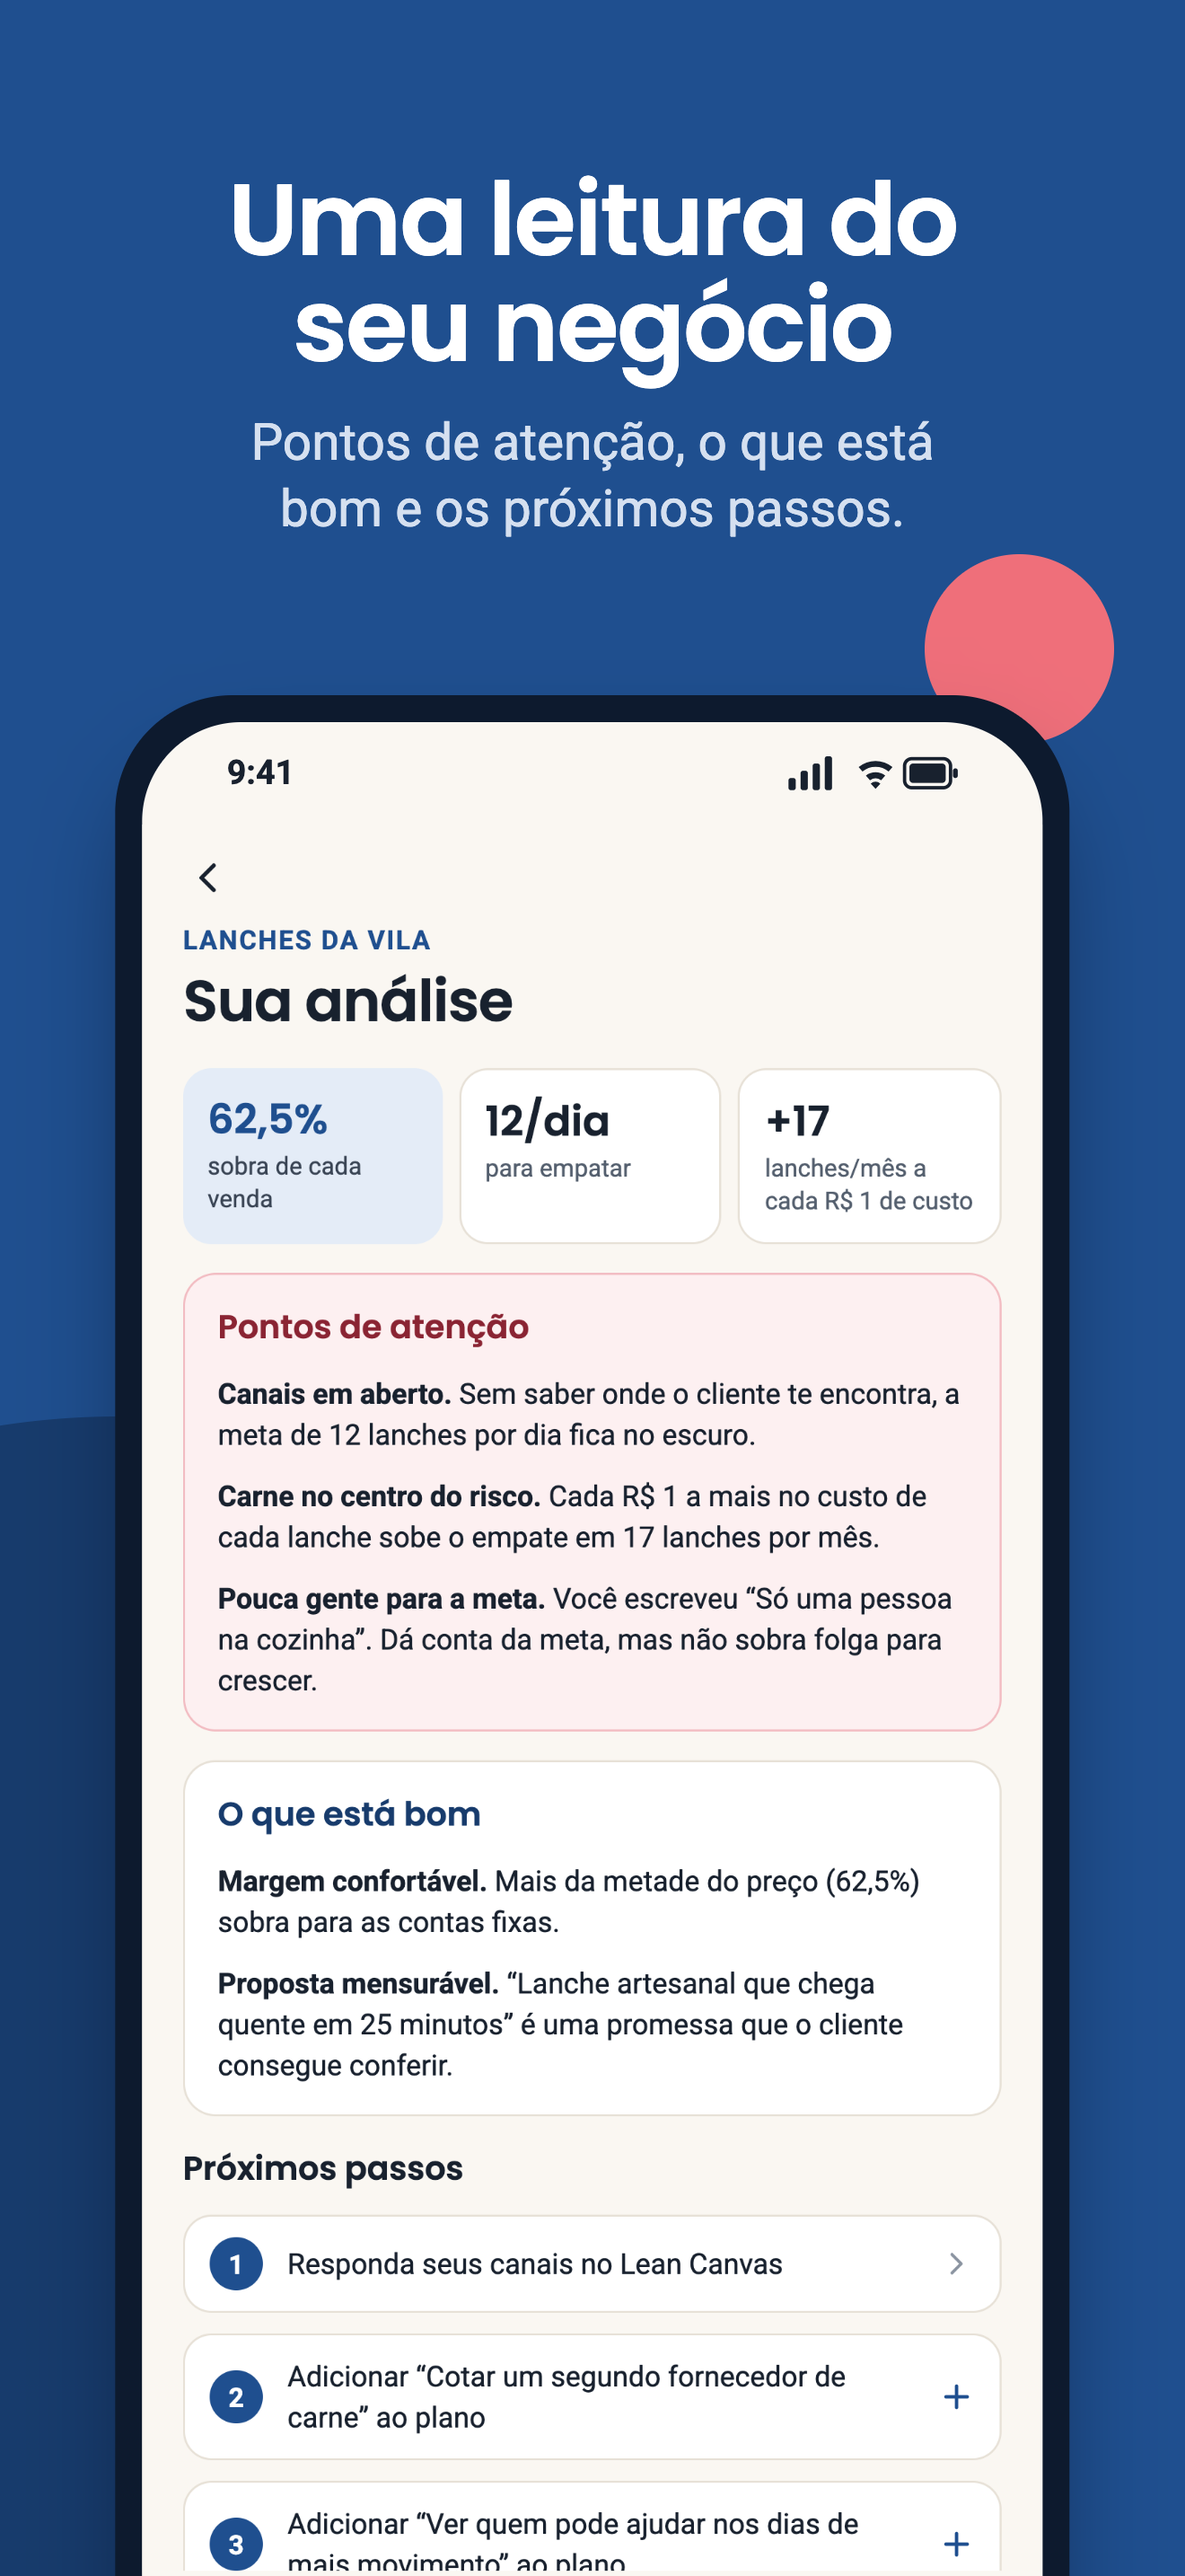
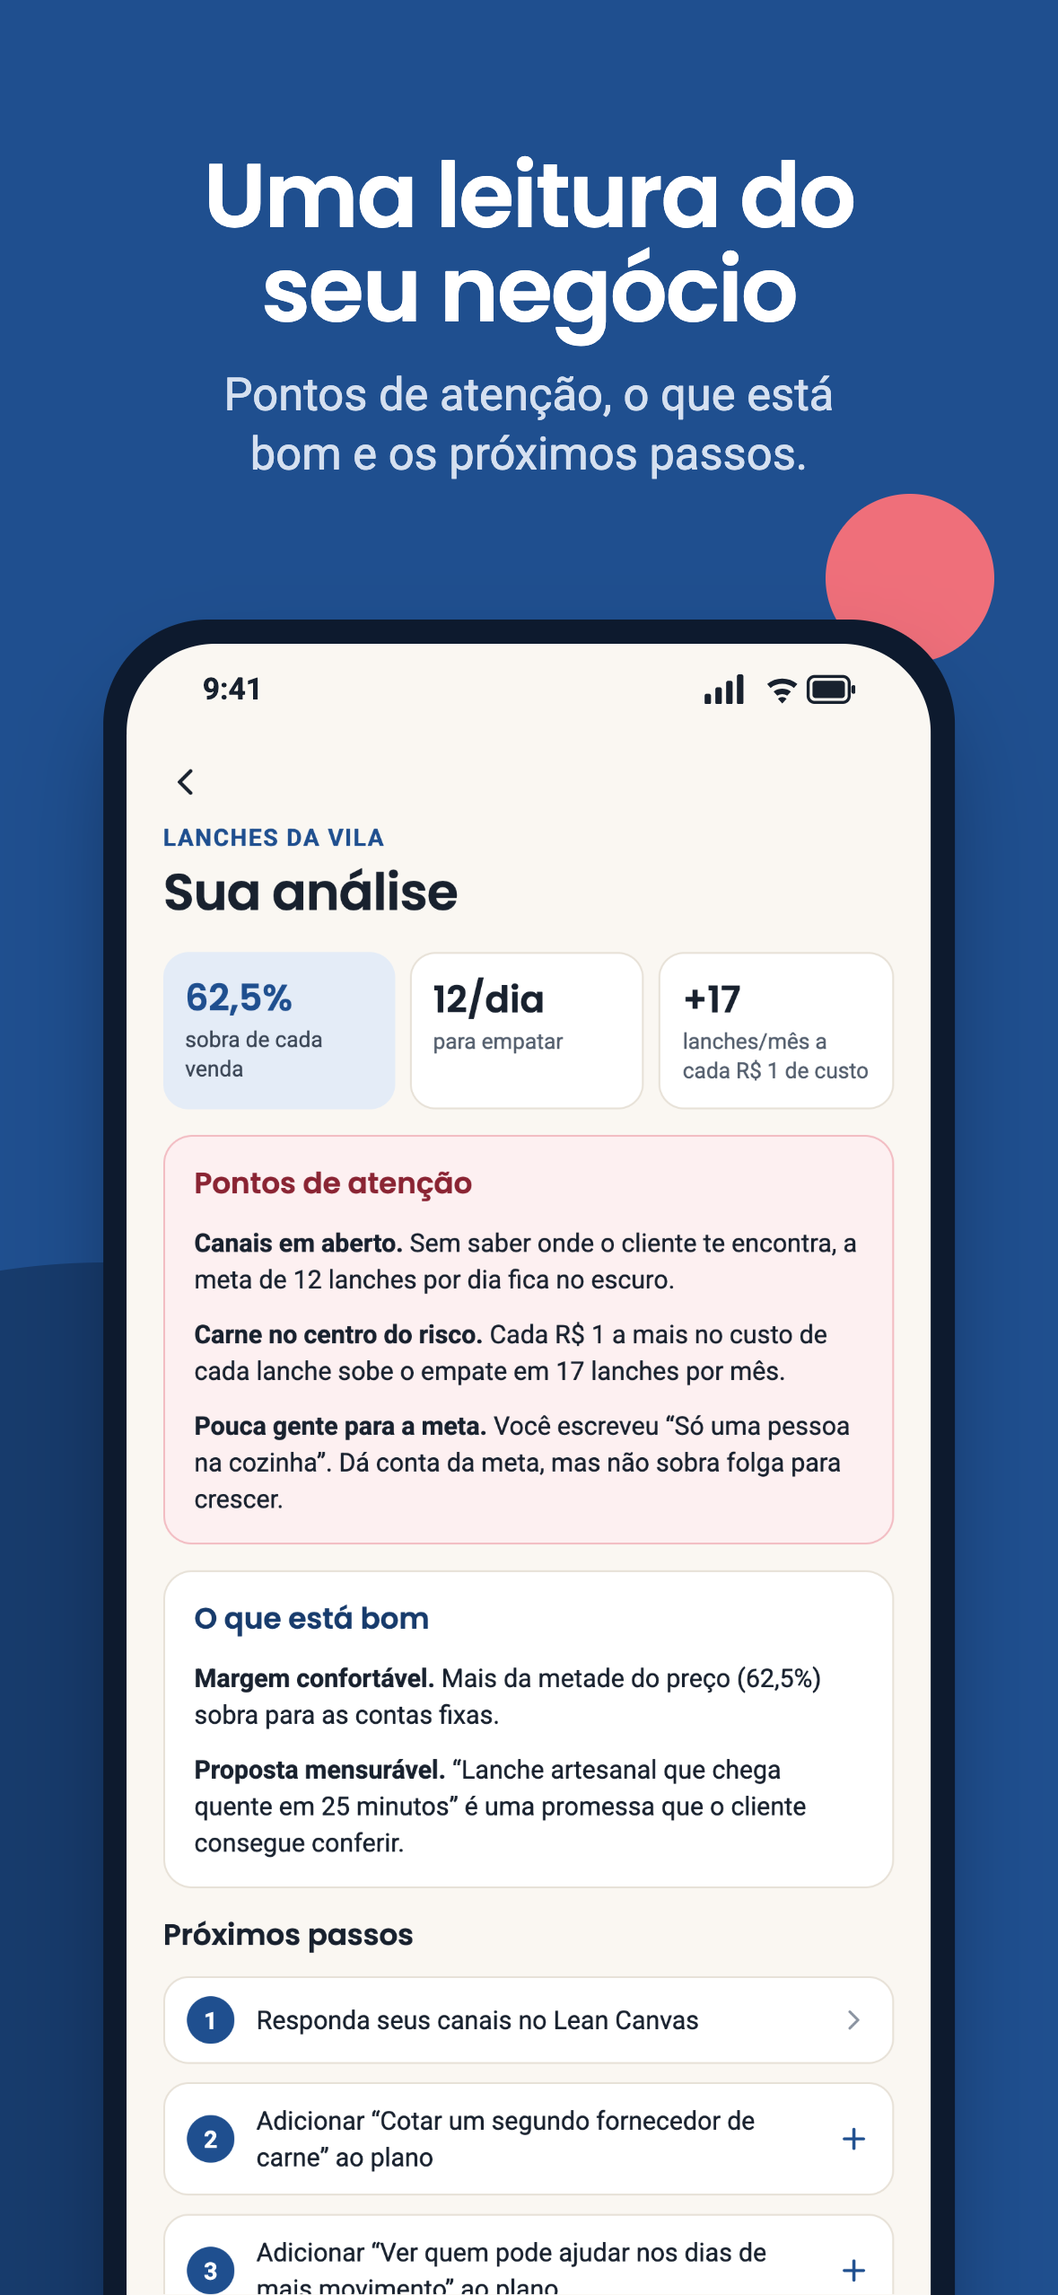
fix: capturas de iPhone em 1179×2556, como no Pendurô e no Churrapp
As capturas e a do paywall de revisão estavam em 1320×2868 e o App Store
Connect não aceitou. Regeradas em 1179×2556, o tamanho que os outros dois
apps usaram na loja. A do paywall foi só redimensionada (diferença de
proporção de 0,2%).

Verificado: tamanhos e ausência de transparência conferidos com sips.

diff --git a/store/textos-loja.md b/store/textos-loja.md
@@ -91,7 +91,7 @@ Sem conteúdo sensível. Apple: 4+. IARC (Play): Livre.
   "Restaurar compra" (em Ajustes e no próprio paywall).
 - Para testar sem comprar: crie um negócio, preencha "Sua ideia em uma página" e o "Ponto de
   equilíbrio"; os itens com cadeado abrem o paywall. A captura do paywall para a revisão está
-  em `store/appstore-revisao-paywall-1320x2868.png`.
+  em `store/appstore-revisao-paywall-1179x2556.png`.
 - O app não usa rede além da loja (RevenueCat). Não há conta nem login.
 - Lean Canvas e Business Model Canvas são citados com atribuição (CC BY-SA 3.0) em Ajustes e
   no PDF; os logos da Strategyzer não são usados.
